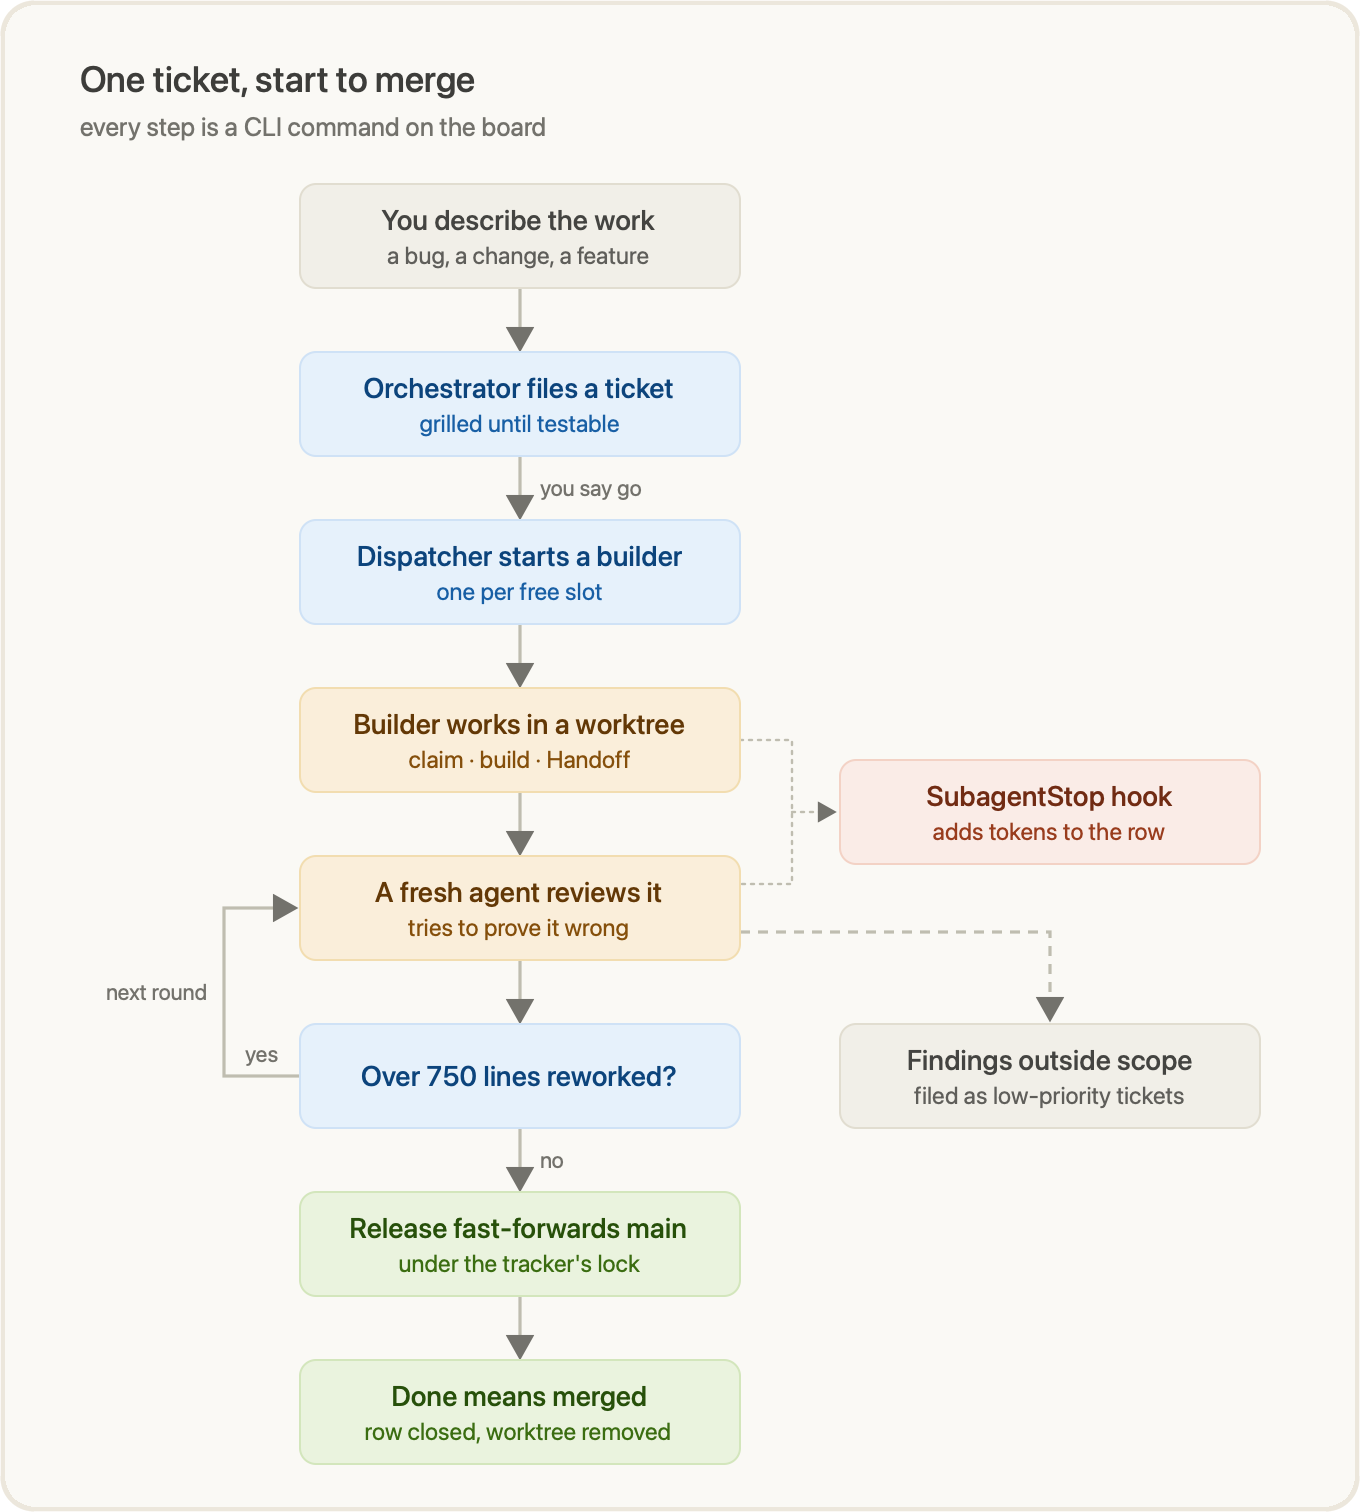
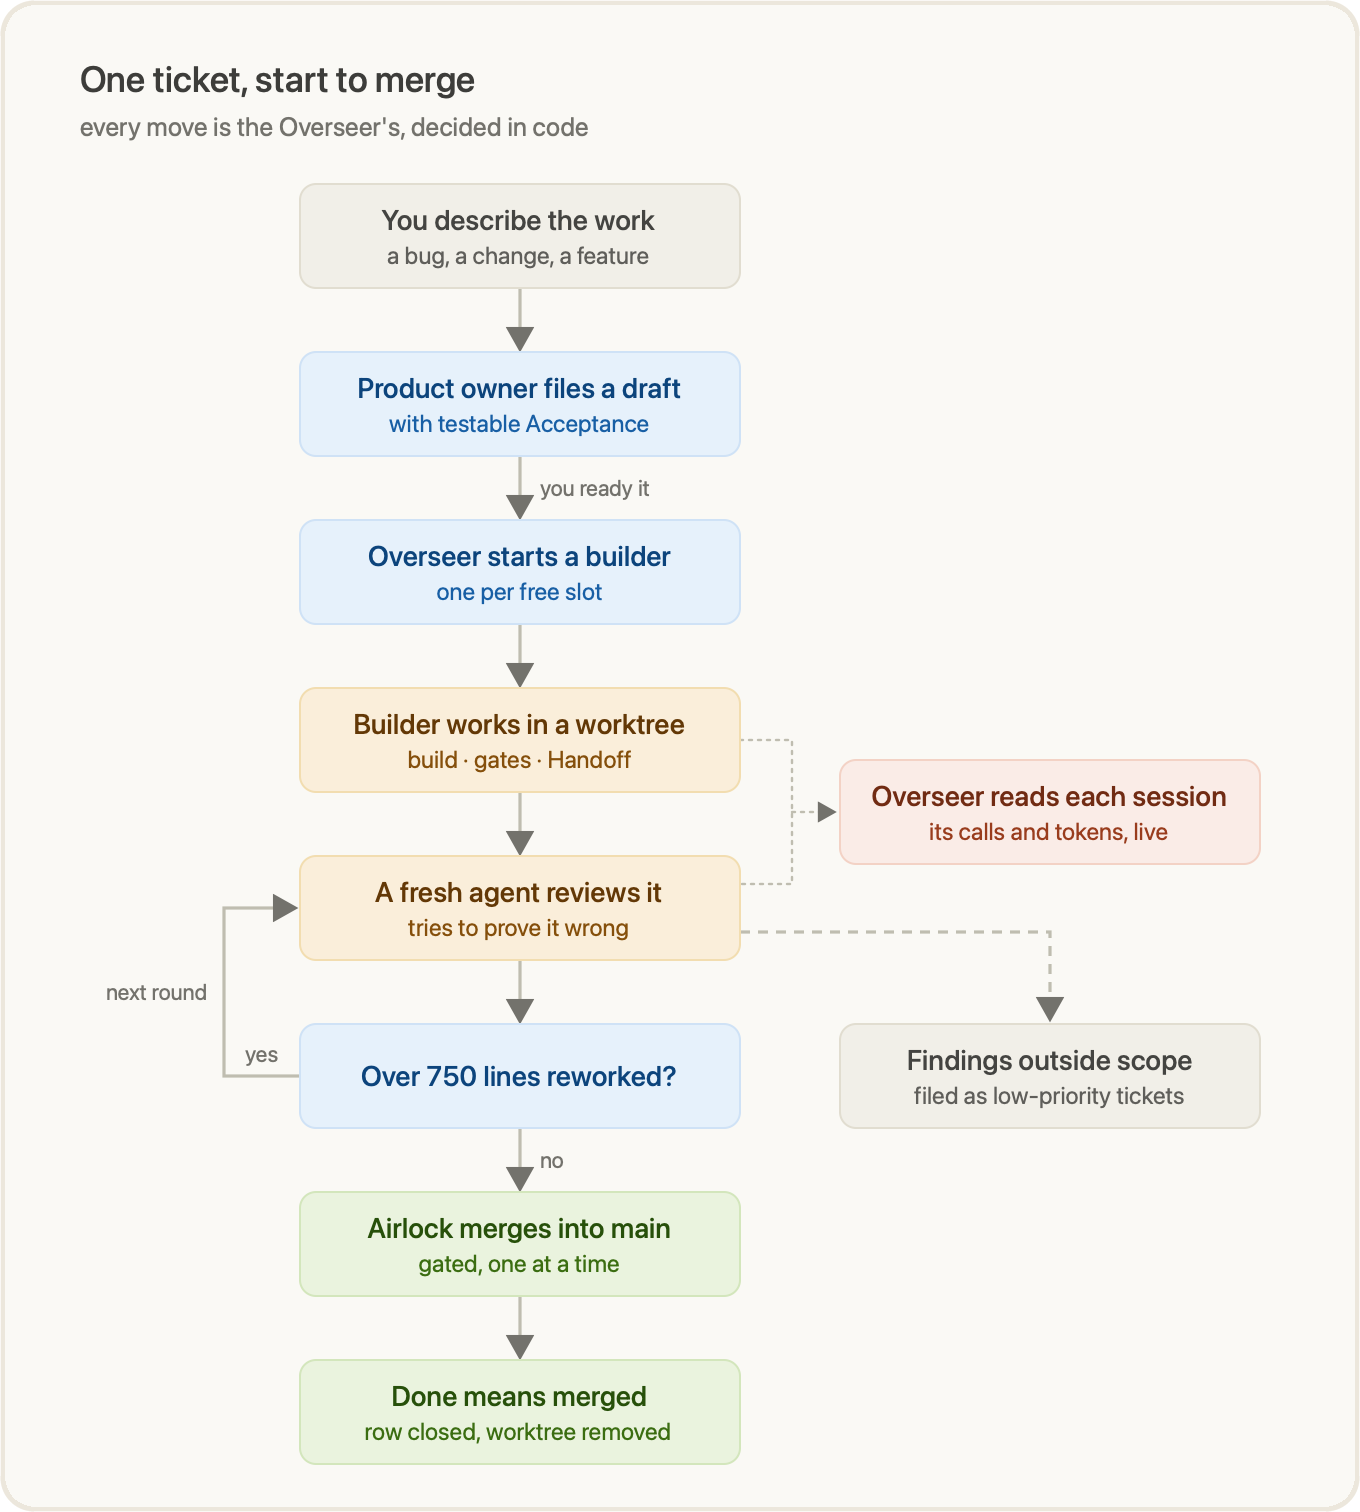
Redraw the README diagrams for the runner and reword the ClaudeTranscripts header

diff --git a/src/lib/claude-code/ClaudeTranscripts.ts b/src/lib/claude-code/ClaudeTranscripts.ts
@@ -1,8 +1,8 @@
 /**
  * Where Claude Code keeps one repository's transcripts, and which of them belong to subagents. As the claude-code building block's
- * main module it also stands for its siblings, which merge the `SubagentStop` hook into the settings, write a marker-delimited block in a `CLAUDE.md`
- * build Workflow scripts with Bun's bundler, and adapt Claude Code to the launcher port. The package depends on `src/lib/agent-launch`,
- * `src/lib/atomic-file`, `src/lib/json-record` and `src/lib/local-time`.
+ * main module it also stands for its siblings, which merge and remove command hooks in a settings file, write and remove a marker-delimited
+ * block in a `CLAUDE.md`, adapt Claude Code to the launcher port, and map its stream-json lines to the port's events. The package depends
+ * on `src/lib/agent-launch`, `src/lib/atomic-file`, `src/lib/json-record` and `src/lib/local-time`.
  */
 import type { Dirent }               from 'node:fs';
 import { readdirSync, readFileSync } from 'node:fs';

diff --git a/README.md b/README.md
@@ -120,7 +120,7 @@ cache reads included, to its row. `agent-progress usage` audits the same figures
 | **CLI and hook** | `agent-progress` | Holds the state, draws the page, records tokens when an agent stops. |
 
 <p align="center">
-  <img src="docs/images/lifecycle.png" width="560" alt="One ticket, start to merge: you describe the work, the orchestrator files a ticket, on your go the dispatcher starts a builder in a worktree, a fresh agent reviews it, a large rework loops to another round, otherwise release fast-forwards main and done means merged; findings outside scope become low-priority tickets and the SubagentStop hook adds tokens to the row">
+  <img src="docs/images/lifecycle.png" width="560" alt="One ticket, start to merge: you describe the work, a product owner files a draft, once you ready it the Overseer starts a builder in a worktree, a fresh agent reviews it, a large rework loops to another round, otherwise the Airlock merges it into main and done means merged; findings outside scope become low-priority tickets and the Overseer reads each session's calls and tokens live">
 </p>
 
 You can keep filing tickets while a run is going; it picks them up when its next agent returns, and a
@@ -132,7 +132,7 @@ orchestrator picks up where it left off.
 <summary><b>Where everything goes</b> — the architecture</summary>
 <br>
 <p align="center">
-  <img src="docs/images/architecture.png" width="680" alt="Everything goes through one CLI: you talk to the orchestrator session, which launches the dispatcher, which runs builders and reviewers; all of them and the SubagentStop hook call the agent-progress CLI, which locks, writes atomically and re-renders; the CLI writes .agent-progress/, which becomes progress.html in your browser; reviewers fast-forward main on release">
+  <img src="docs/images/architecture.png" width="680" alt="One runner owns the board: you work through the Bridge in your browser or an optional orchestrator session; both reach the Overseer, agent-progress run, which launches product-owner, builder, reviewer and Assistant sessions, keeps .agent-progress/, and passes reviewed tickets through the merge queue to the Airlock, which lands them on main one at a time">
 </p>
 </details>
 
@@ -168,7 +168,7 @@ agent-progress init --project "Example Storefront"
 ```
 
 <p align="center">
-  <img src="docs/images/terminal-init.png" width="680" alt="Terminal output of agent-progress init for Example Storefront, listing tracker, brief, dashboard, .gitignore entry, CLAUDE.md block, SubagentStop hook, dispatcher workflow and worker agent, followed by agent-progress open">
+  <img src="docs/images/terminal-init.png" width="720" alt="Terminal output of agent-progress init for Example Storefront, listing tracker, session instructions, dashboard, .gitignore entry, CLAUDE.md, retired files, SessionStart hook, skills and worktrees folder, followed by agent-progress run --detach printing the Overseer's local URL">
 </p>
 
 `init` writes nine things:
